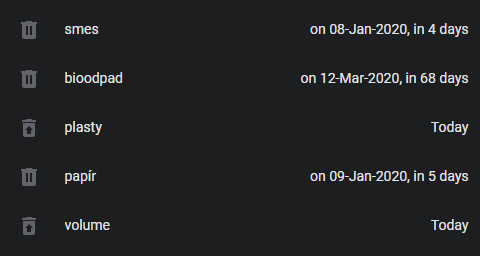
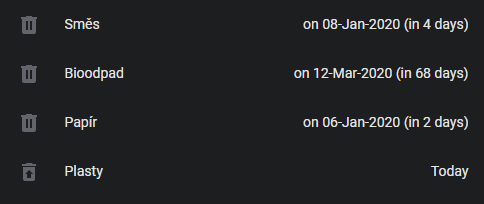
Lovelace examples

diff --git a/README.md b/README.md
@@ -218,6 +218,7 @@ garbage_collection:
     frequency: 'weekly'
     collection_days: wed
     verbose_state: True
+  etc...
 ```
 Lovelace configuration
 ```yaml
@@ -231,13 +232,33 @@ Lovelace configuration
 # Icon view (glance)
 <img src="https://github.com/bruxy70/Garbage-Collection/blob/master/images/sensor.png">
 
-Configuration
+Integration configuration
+```yaml
+garbage_collection:
+  sensors:
+  - name: General Waste
+    frequency: 'weekly'
+    collection_days: wed
+    verbose_state: True
+    verbose_format: "on {date}\n(in {days} days)"
+  etc...
+```
+
+Configuration (I use style to allow line-break in the state)
 ```yaml
       - type: glance
+        style: |
+          "#entity": |
+            $: |
+             :host {}
+             div {
+              #  white-space: pre-line
+             }
         entities:
-        - sensor.general-waste
-        - sensor.bio
-        - sensor.large-waste
+          - sensor.smes
+          - sensor.bioodpad
+          - sensor.papir
+          - sensor.plasty
 ```
 
 # Custom Garbage Collection Card
